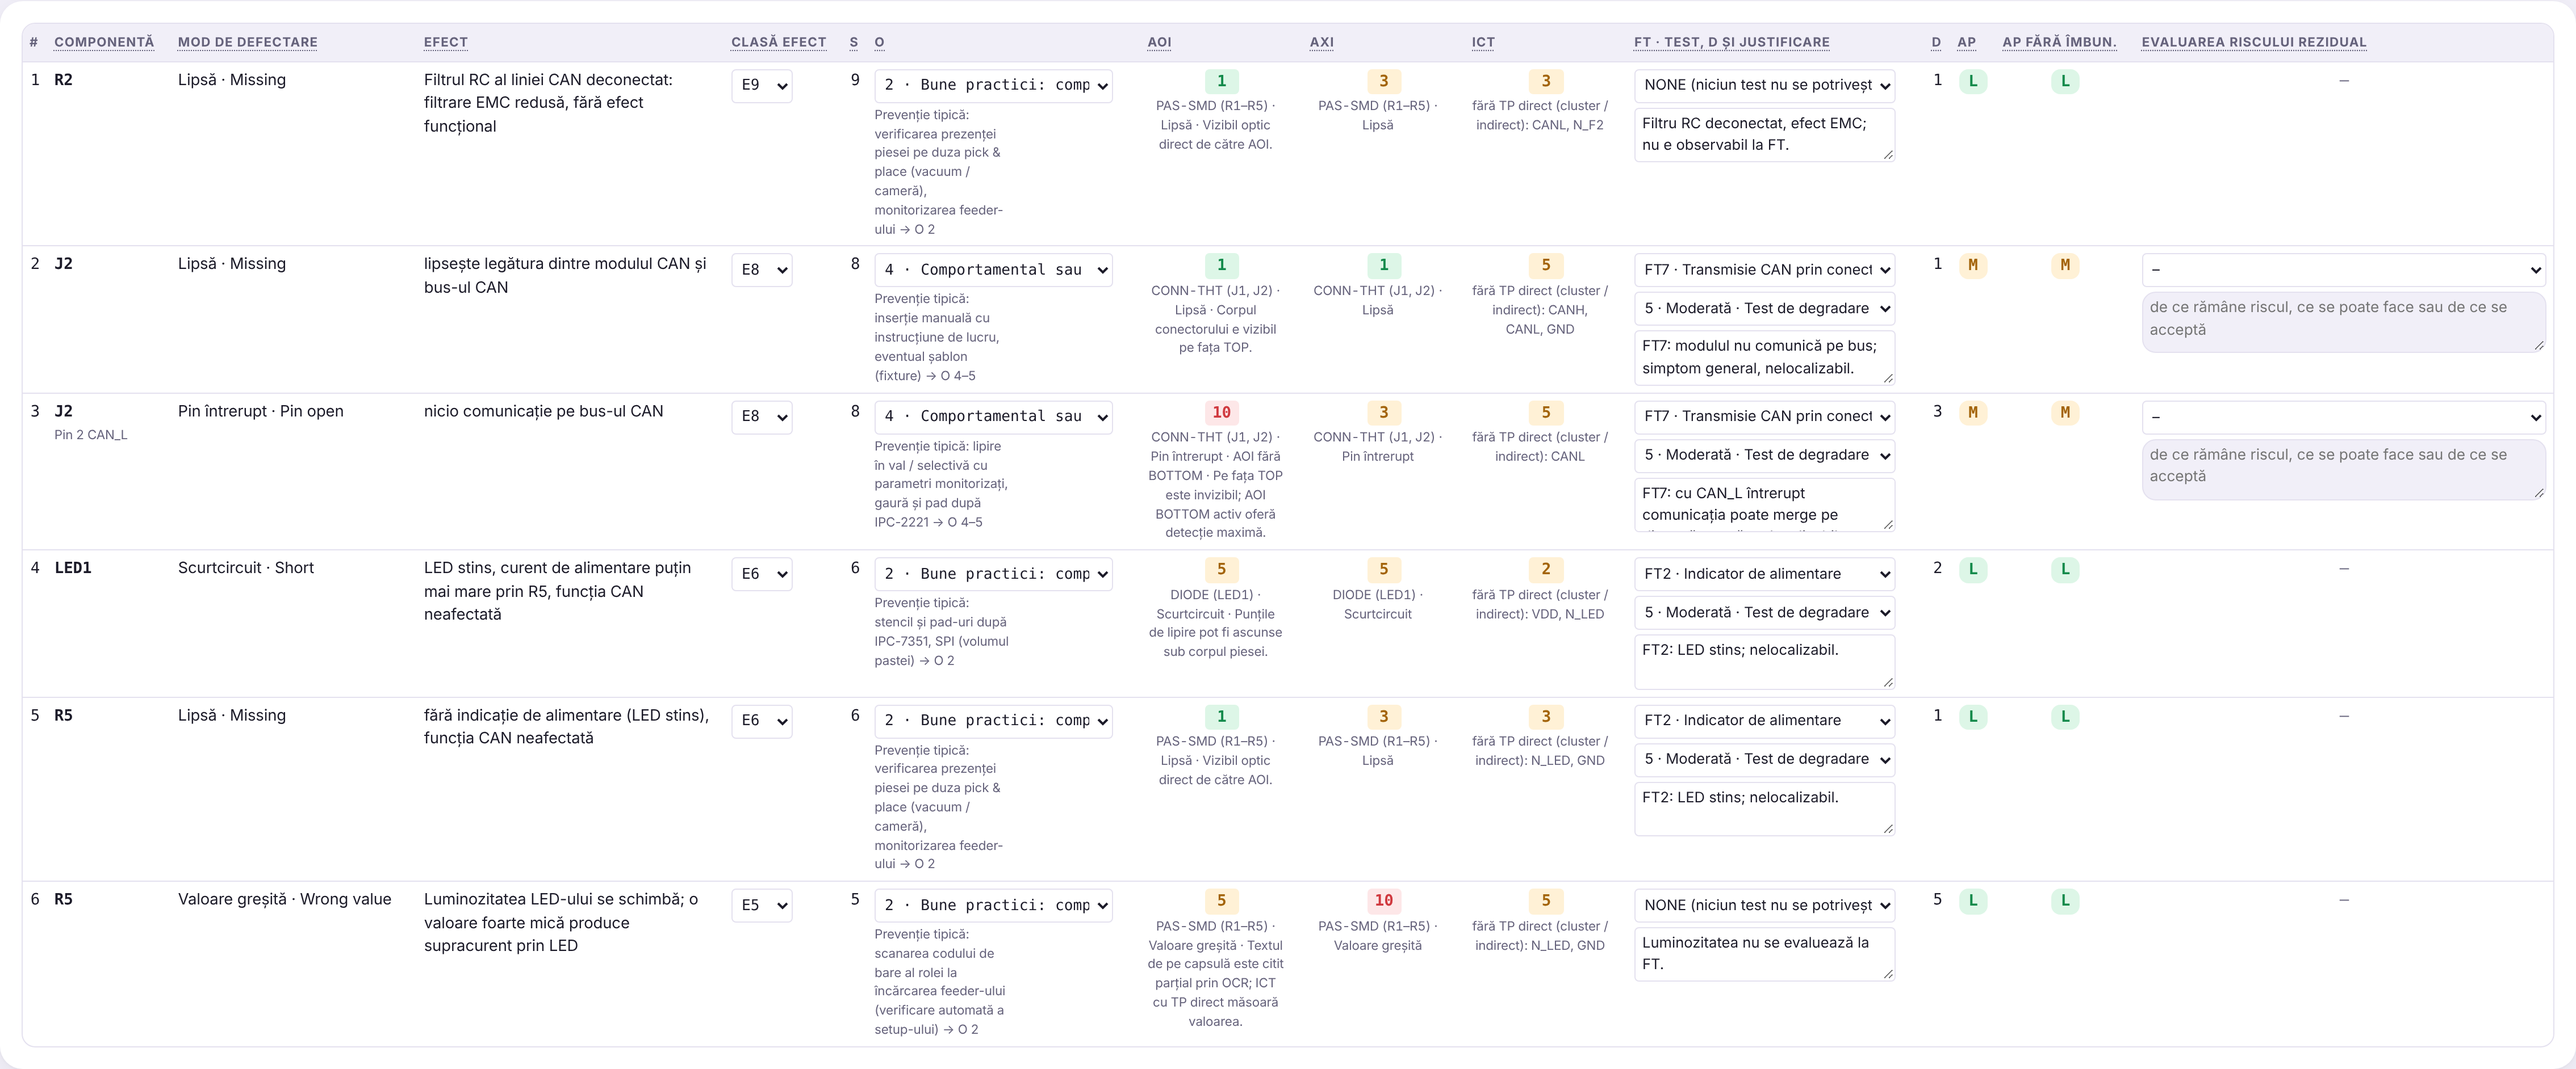
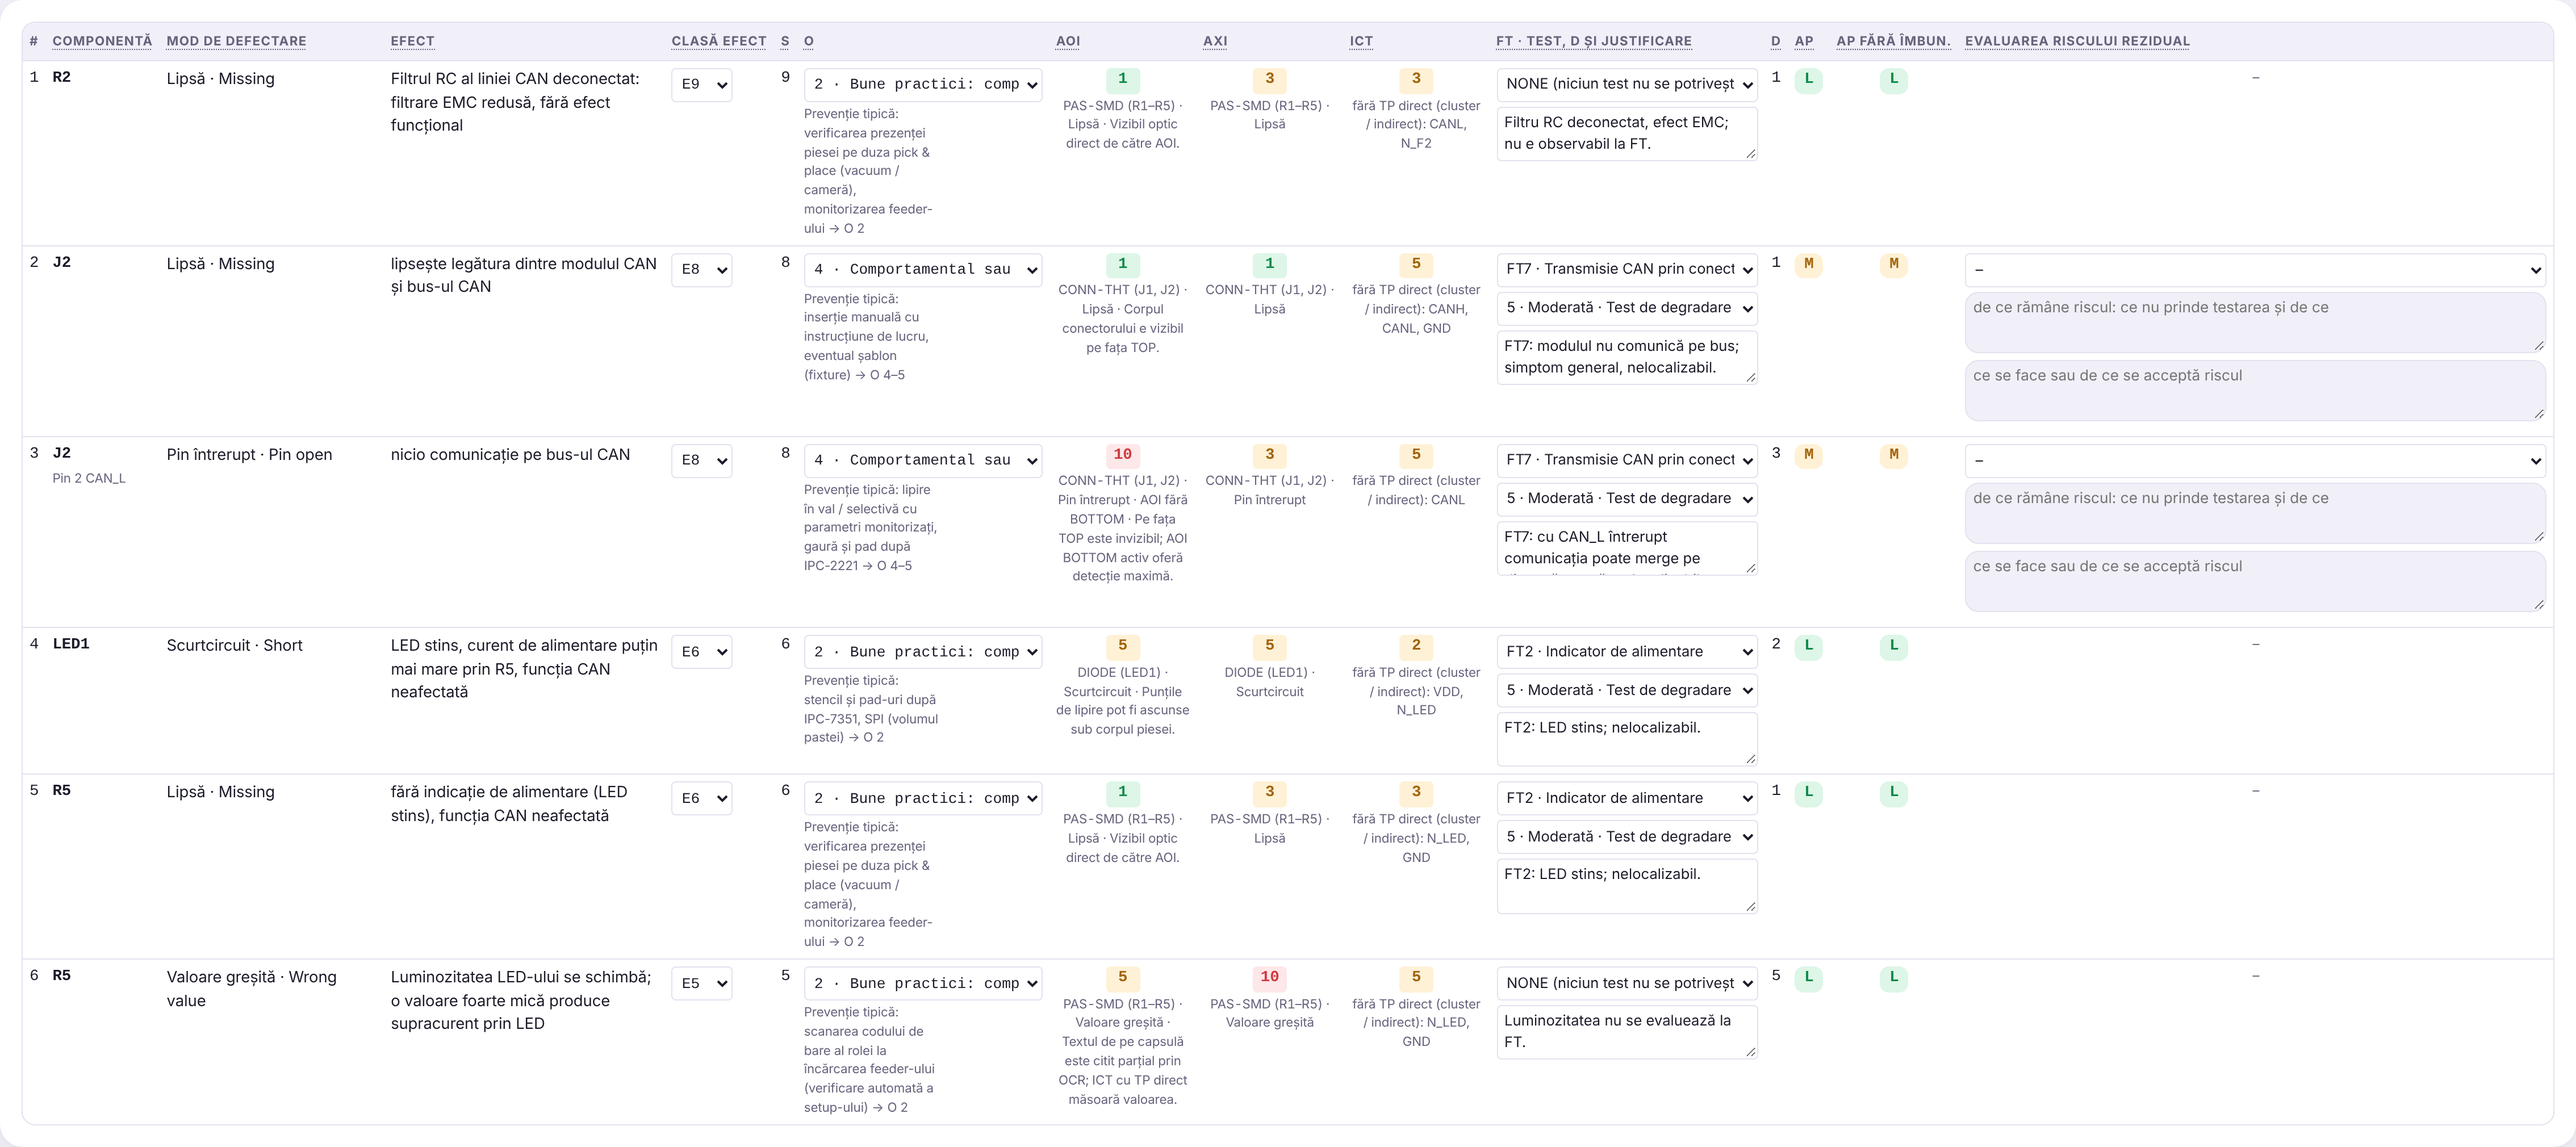
HW TCA: keep focus when moving between the residual risk fields; guide screenshots with the new fields
Claude-Session: https://claude.ai/code/session_015jZV3M7jRAYSoYnq2E89o1

diff --git a/docs/hw/index.html b/docs/hw/index.html
@@ -746,7 +746,13 @@ function renderAnalysis(view) {
   view.querySelectorAll("textarea[data-ra], textarea[data-raw]").forEach((n) => {
     const k = n.hasAttribute("data-raw") ? "raw" : "ra";
     n.addEventListener("input", () => { const i = n.dataset[k]; S.rows[i] = S.rows[i] || {}; S.rows[i][k] = n.value; save(); });
-    n.addEventListener("change", () => render());
+    /* re-render after the focus has moved, then give the focus back (e.g. from one risk field to the other) */
+    n.addEventListener("change", () => setTimeout(() => {
+      const a = document.activeElement; let sel = "";
+      if (a && a !== document.body && a.attributes) { for (const at of a.attributes) if (at.name.startsWith("data-")) { sel = a.tagName.toLowerCase() + "[" + at.name + '="' + at.value + '"]'; break; } if (!sel && a.id) sel = "#" + a.id; }
+      render();
+      if (sel) { const b = document.querySelector(sel); if (b) { b.focus(); if (b.setSelectionRange && typeof b.value === "string") b.setSelectionRange(b.value.length, b.value.length); } }
+    }, 0));
   });
   view.querySelector("#addTest").addEventListener("submit", (e) => {
     e.preventDefault(); const d = view.querySelector("#newTestDesc").value.trim(); if (!d) return;
